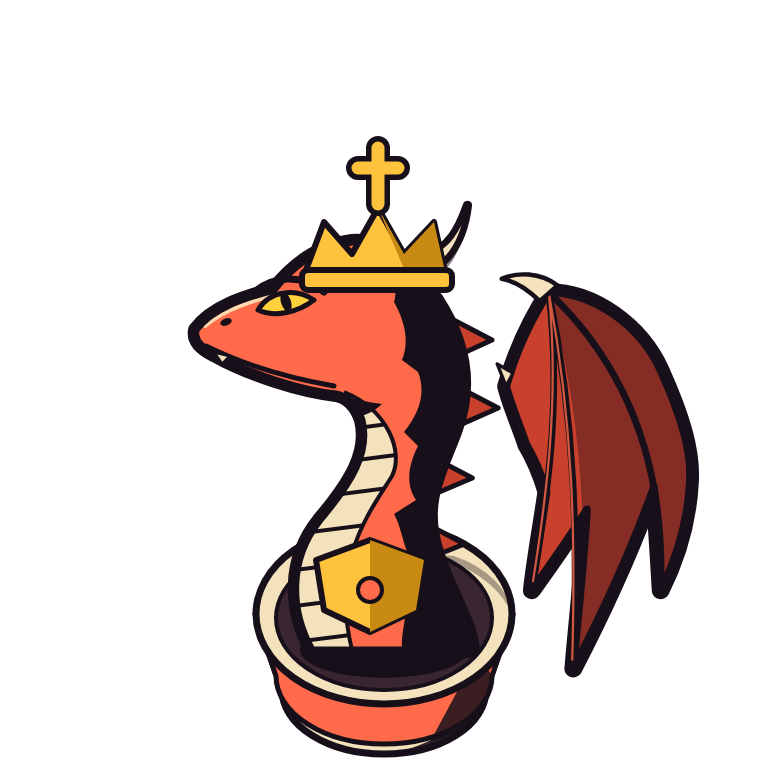
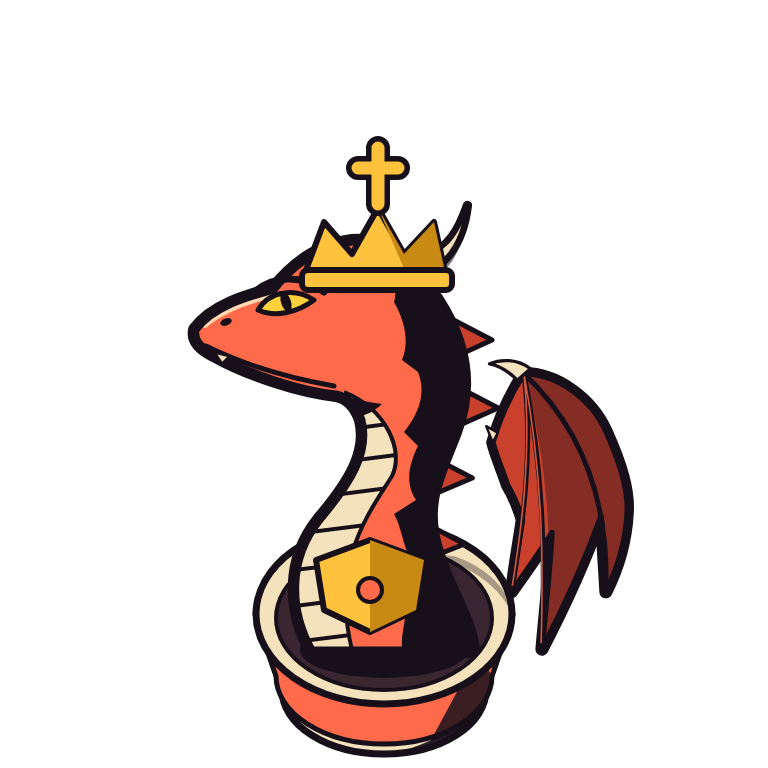
art-src: 龍 v7 — 翅膀縮小，減少壓到其他杯子
Claude-Session: https://claude.ai/code/session_01YcRvipXLdSARSXJBNmnAqn

Changed region(s): [[0.625, 0.3438, 0.9375, 0.875]]

diff --git a/art-src/dragon/build.js b/art-src/dragon/build.js
@@ -75,7 +75,7 @@ function wing(k = 1) {
     + 'C482,380 474,362 470,346 '                                                                      // 內凹缺口 → 拇爪
     + 'C478,318 490,290 508,262 Z';
   const shade = 'M508,262 C548,262 590,292 608,332 C626,372 636,404 634,432 C632,470 622,500 608,528 C606,494 604,462 602,436 C584,486 556,548 530,598 C546,500 540,380 508,262 Z';
-  return `<g transform="translate(486 626) scale(${k}) translate(-452 -560)">
+  return `<g transform="translate(478 618) scale(${k}) translate(-452 -560)">
     <path d="${mem}" fill="none" stroke="${INK}" stroke-width="${SIL}" stroke-linejoin="round"/>
     <path d="${mem}" fill="${RED2}" stroke="${INK}" stroke-width="${OL}" stroke-linejoin="round"/>
     <path d="${shade}" fill="${INK}" opacity=".38"/>
@@ -89,7 +89,7 @@ const HORN_A = 'M362,266 C392,246 428,244 456,234 C488,222 506,196 522,150 C516,
 const HORN_B = 'M398,294 C430,282 462,284 490,276 C512,268 526,252 536,228 C536,262 518,288 492,300 C468,310 444,312 424,316 Z';
 const HORN_A_SH = 'M468,256 C496,236 516,200 522,150 C518,212 500,252 472,270 C448,284 424,292 404,294 C428,282 448,270 468,256 Z';
 
-const t3 = () => `${cup()}${plinth}${wing(0.78)}${NECK_SPINES}${head({ clipId: 'c3' })}${horns(0.72, horn(HORN_A) + horn(HORN_B) + hornShadow(HORN_A_SH))}`;
+const t3 = () => `${cup()}${plinth}${wing(0.6)}${NECK_SPINES}${head({ clipId: 'c3' })}${horns(0.72, horn(HORN_A) + horn(HORN_B) + hornShadow(HORN_A_SH))}`;
 
 /* ── t1 剛出生：蛋殼 + 小龍頭 + 兩隻小角 ── */
 const t1 = () => {
@@ -122,7 +122,7 @@ const crown = `
     <path d="M372,200 L398,246 L428,214 L440,268 L402,270 Z" fill="${GOLD2}"/>
     <rect x="296" y="262" width="150" height="20" rx="6" fill="${GOLD}" stroke="${INK}" stroke-width="6"/>
     <path d="M372,196 L372,140 M352,160 L392,160" stroke="${INK}" stroke-width="24" stroke-linecap="round"/><path d="M372,196 L372,140 M352,160 L392,160" stroke="${GOLD}" stroke-width="13" stroke-linecap="round"/></g>`;
-const t6 = () => `${cup()}${plinth}${wing(1.12)}${NECK_SPINES}${head({ clipId: 'c6' })}${horns(0.58, horn(HORN_A) + hornShadow(HORN_A_SH))}${crown}
+const t6 = () => `${cup()}${plinth}${wing(0.82)}${NECK_SPINES}${head({ clipId: 'c6' })}${horns(0.58, horn(HORN_A) + hornShadow(HORN_A_SH))}${crown}
   <path d="M330,560 L384,540 L438,560 L430,610 L384,632 L338,610 Z" fill="${GOLD}" stroke="${INK}" stroke-width="6" stroke-linejoin="round" transform="translate(-14 0)"/>
   <path d="M384,540 L438,560 L430,610 L384,632 Z" fill="${GOLD2}" transform="translate(-14 0)"/>
   <circle cx="370" cy="590" r="12" fill="${RED}" stroke="${INK}" stroke-width="4"/>`;
